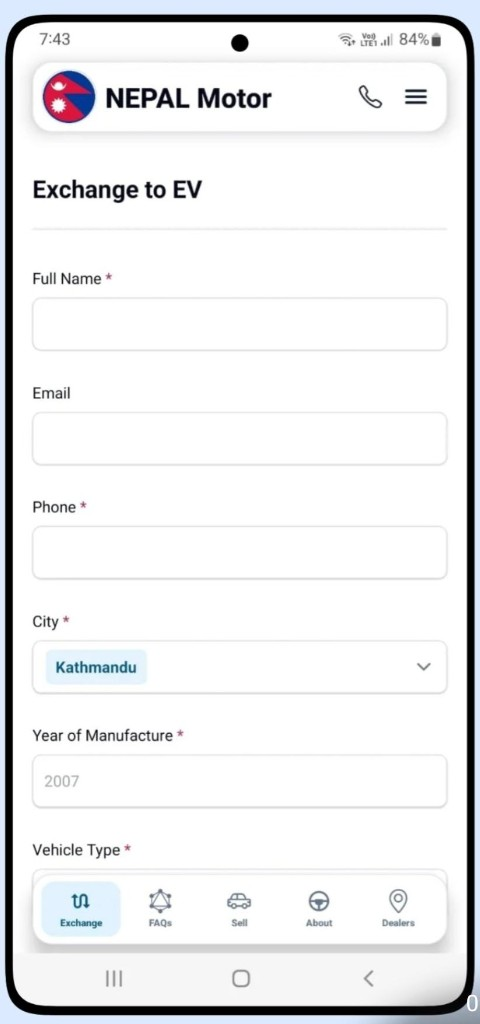
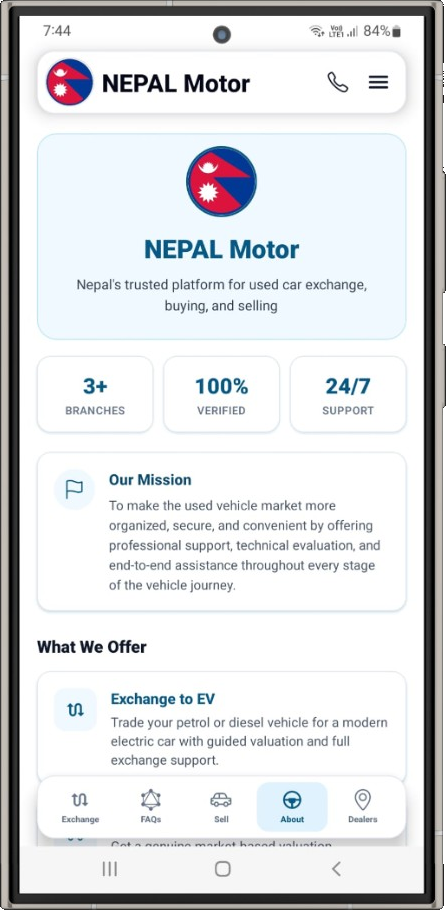
Update download page preview

diff --git a/app/d/page.tsx b/app/d/page.tsx
@@ -12,56 +12,43 @@ const PLAY_STORE_URL = "#";
 const APP_STORE_URL = "#";
 
 const storeButtonClass =
-  "flex h-[52px] w-[52px] items-center justify-center rounded-2xl bg-white/95 shadow-[0_8px_24px_rgba(7,89,133,0.18)] ring-1 ring-sky-100/80 backdrop-blur-sm transition-[transform,box-shadow] hover:scale-[1.04] hover:shadow-[0_12px_28px_rgba(7,89,133,0.22)] active:scale-[0.98]";
+  "flex h-[52px] w-[52px] items-center justify-center rounded-2xl bg-white shadow-[0_4px_14px_rgba(15,23,42,0.1)] ring-1 ring-slate-200/90 transition-[transform,box-shadow] hover:scale-[1.04] hover:shadow-[0_8px_20px_rgba(15,23,42,0.12)] active:scale-[0.98]";
 
 export default function DownloadAppPage() {
   return (
     <SiteShell title="Download App" compact>
-      <div className="relative flex min-h-0 flex-1 flex-col items-center justify-center overflow-hidden px-1 pb-1">
-        <div
-          className="pointer-events-none absolute inset-0 bg-gradient-to-b from-sky-50/90 via-white to-sky-50/40"
-          aria-hidden
-        />
-        <div
-          className="pointer-events-none absolute top-[12%] left-1/2 h-56 w-[min(100%,280px)] -translate-x-1/2 rounded-full bg-sky-200/35 blur-3xl"
-          aria-hidden
-        />
+      <div className="flex min-h-0 flex-1 flex-col items-center justify-center gap-5 bg-white px-2 pb-2">
+        <div className="relative w-full max-w-[min(96vw,420px)] flex-1 min-h-0 max-h-[min(72dvh,620px)]">
+          <Image
+            src="/app-download/phone-preview.png?v=3"
+            alt=""
+            fill
+            priority
+            unoptimized
+            sizes="(max-width: 640px) 96vw, 420px"
+            className="object-contain object-center"
+          />
+        </div>
 
-        <div className="relative z-10 flex min-h-0 w-full max-w-[min(88vw,300px)] flex-1 flex-col items-center justify-center gap-5 py-2">
-          <div className="relative w-full flex-1 min-h-0 max-h-[min(62dvh,520px)]">
-            <div className="absolute inset-2 rounded-[28px] bg-slate-900/[0.06] blur-md" />
-            <div className="relative h-full overflow-hidden rounded-[26px] shadow-[0_20px_48px_-16px_rgba(7,89,133,0.4)] ring-1 ring-sky-200/80">
-              <Image
-                src="/app-download/phone-preview.png"
-                alt=""
-                fill
-                priority
-                sizes="(max-width: 640px) 88vw, 300px"
-                className="object-contain object-top"
-              />
-            </div>
-          </div>
-
-          <div className="flex shrink-0 items-center justify-center gap-3 pb-1">
-            <a
-              href={PLAY_STORE_URL}
-              target="_blank"
-              rel="noopener noreferrer"
-              aria-label="Get it on Google Play"
-              className={storeButtonClass}
-            >
-              <PlayStoreIcon className="h-7 w-7" />
-            </a>
-            <a
-              href={APP_STORE_URL}
-              target="_blank"
-              rel="noopener noreferrer"
-              aria-label="Download on the App Store"
-              className={storeButtonClass}
-            >
-              <AppStoreIcon className="h-7 w-7 text-slate-900" />
-            </a>
-          </div>
+        <div className="flex shrink-0 items-center justify-center gap-3 pb-1">
+          <a
+            href={PLAY_STORE_URL}
+            target="_blank"
+            rel="noopener noreferrer"
+            aria-label="Get it on Google Play"
+            className={storeButtonClass}
+          >
+            <PlayStoreIcon className="h-7 w-7" />
+          </a>
+          <a
+            href={APP_STORE_URL}
+            target="_blank"
+            rel="noopener noreferrer"
+            aria-label="Download on the App Store"
+            className={storeButtonClass}
+          >
+            <AppStoreIcon className="h-7 w-7 text-slate-900" />
+          </a>
         </div>
       </div>
     </SiteShell>
